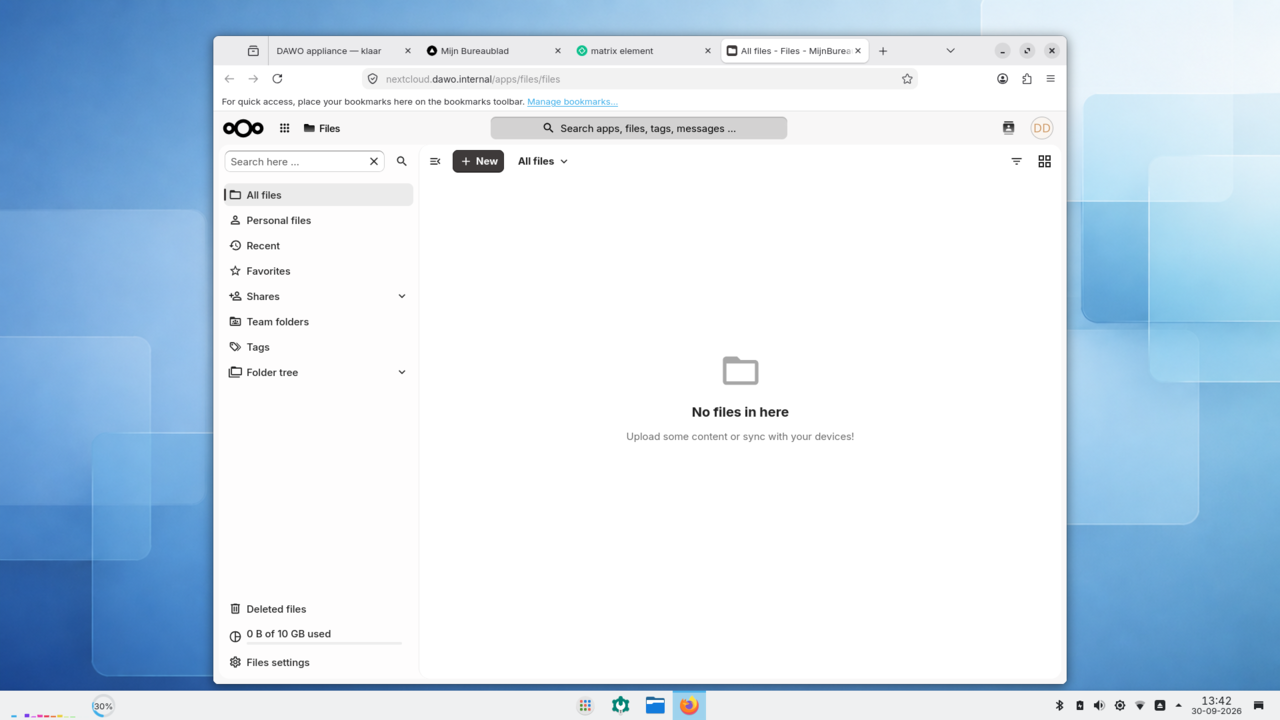
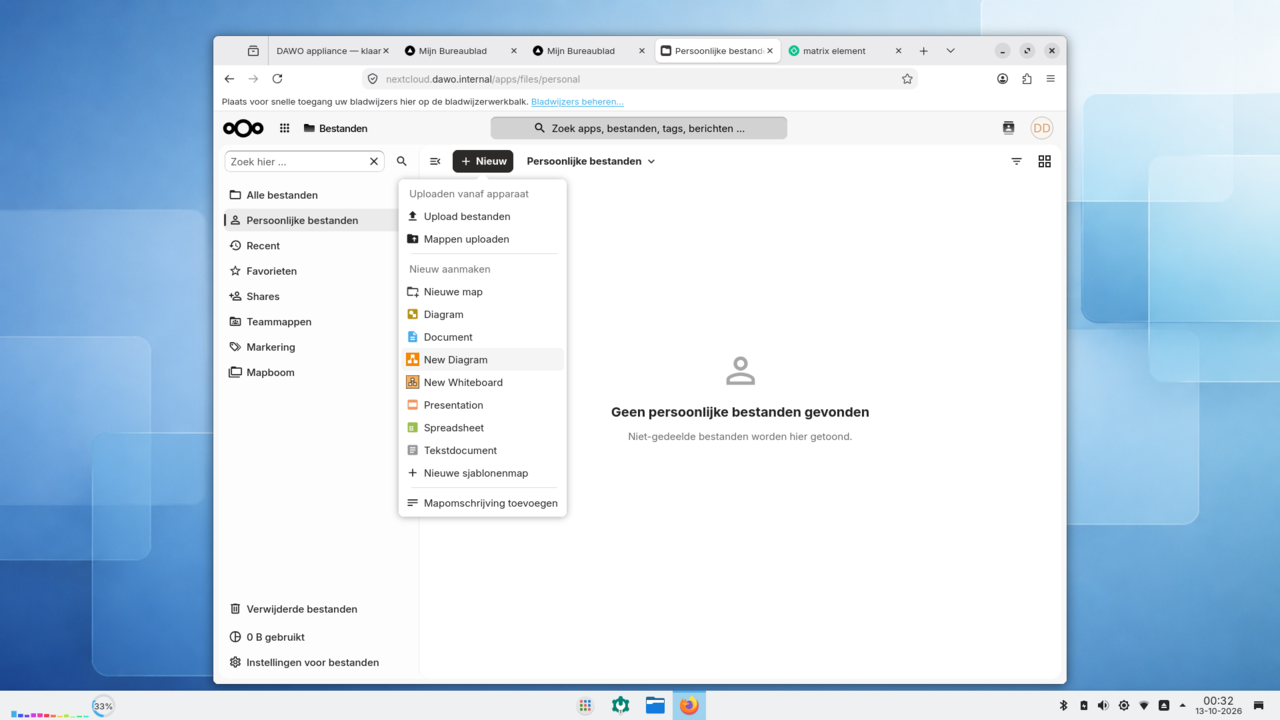
docs(readme): status 13 October, Nextcloud screenshot with the repaired apps
Dell run 2026-10-13: single sign-on to Bureaublad, Nextcloud, Collabora
and Element, Thematiq; disk image route; next: v0.1.0-rc.1 and Launch.
The Nextcloud screenshot (from the stick, via scripts/screenshots.sh)
shows the New menu with document and diagram and the team folders.

diff --git a/README.md b/README.md
@@ -44,14 +44,15 @@ Op de USB-schijf staat alles:
 
 <sub>Gemaakt door de debug-modus van de USB-schijf op een Dell Latitude 5550, alleen bijgesneden (herkomst: [`docs/screenshots/HARDWARE.md`](docs/screenshots/HARDWARE.md)).</sub>
 
-#### Stand van zaken (30 september 2026)
+#### Stand van zaken (13 oktober 2026)
 
 | | |
 | --- | --- |
 | ✅ **Werkt** | Opstarten van USB zonder de laptop te veranderen · werkplek na 20 seconden · virtuele machine en Kubernetes binnen een minuut · gegevens blijven bewaard · netjes afsluiten · statuspagina met voortgang |
-| ✅ **Werkt** | Mijn Bureau installeert zichzelf helemaal: alle 14 stappen gelukt (ongeveer 8 minuten als de apps al gedownload zijn), inloggen werkt en het dashboard opent |
-| ✅ **Werkt** | Inloggen met gebruikersnaam `dawo` en wachtwoord `dawo`; het dashboard Mijn Bureaublad, bestanden (Nextcloud) en chat (Element) openen met één inlog |
-| ⏭ **Daarna** | De demo doorlopen met het [demoscript](docs/demo-script.md) en schermafbeeldingen van de apps zelf |
+| ✅ **Werkt** | Mijn Bureau installeert zichzelf helemaal: alle 14 stappen gelukt (ongeveer 9 minuten als de apps al gedownload zijn) |
+| ✅ **Werkt** | Eén keer inloggen (`dawo`/`dawo`) voor het dashboard, bestanden (Nextcloud), documenten bewerken (Collabora) en chat (Element), alles in het Nederlands; Nextcloud met het NL Design System-thema (Thematiq) |
+| ✅ **Nieuw** | Te downloaden als schijfbestand voor Rufus of balenaEtcher (`dawo-appliance-live.img`); de eerste start maakt de rest van de USB-SSD zelf klaar als opslag |
+| ⏭ **Daarna** | Eerste testversie (v0.1.0-rc.1) om te downloaden; daarna **Launch**: een venster waarin je zelf kiest welke omgeving je start (Mijn Bureau, later bijvoorbeeld Valtimo of Open Zaak) |
 
 De technische details per stap staan hieronder in het Engelse deel en in de [issues op GitHub](https://github.com/EduardWitteveen/dawo-appliance/issues).
 

diff --git a/docs/screenshots/HARDWARE.md b/docs/screenshots/HARDWARE.md
@@ -12,6 +12,6 @@ nothing else. Rules: [`README.md`](README.md).
 | `live-status-page-dell.png` | Dell Inc. Latitude 5550 | `20260930T071508Z_59de7dac` | 2026-09-30 09:23:52 | `e2183babf5ad79aa…` | Status page after all 14 phases: Mijn Bureau ready, Open Mijn Bureau button, Dell Latitude 5550, USB SSD |
 | `live-bureaublad-dell.png` | Dell Inc. Latitude 5550 | `20260930T111822Z_ec4e1ce7` | 2026-09-30 13:41:15 | `19abe4ca7ec234ae…` | Mijn Bureaublad dashboard after logging in as dawo/dawo, with Element and Nextcloud open in tabs (main ad68322) |
 | `live-login-dell.png` | Dell Inc. Latitude 5550 | `20260930T111822Z_ec4e1ce7` | 2026-09-30 13:39:44 | `100dd8c4217d6282…` | Mijn Bureau sign-in page (Keycloak, realm mijnbureau) with the demo user dawo |
-| `live-nextcloud-dell.png` | Dell Inc. Latitude 5550 | `20260930T111822Z_ec4e1ce7` | 2026-09-30 13:42:16 | `04db6f766b4b03ee…` | Nextcloud Files after single sign-on from Bureaublad (empty home, 10 GB quota) |
 | `live-element-dell.png` | Dell Inc. Latitude 5550 | `20260930T111822Z_ec4e1ce7` | 2026-09-30 13:41:46 | `1a24f78259b559af…` | Element chat after single sign-on: Welcome DAWO Demo, room #welkom |
 | `live-collabora-dell.png` | Dell Inc. Latitude 5550 | `20260930T185043Z_63d69852` | 2026-09-30 21:02:29 | `12e94bfc95ed2eda…` | Collabora Online editing Document.docx inside Nextcloud after automatic sign-in (branch test/iso-173-176-177) |
+| `live-nextcloud-dell.png` | Dell Inc. Latitude 5550 | `20261012T221250Z_17c36c7a` | 2026-10-13 00:32:41 | `6615b0a1d93d1c8a…` | Nextcloud Bestanden in het Nederlands, ingelogd via Keycloak, met het menu Nieuw (document, diagram) en Teammappen |
